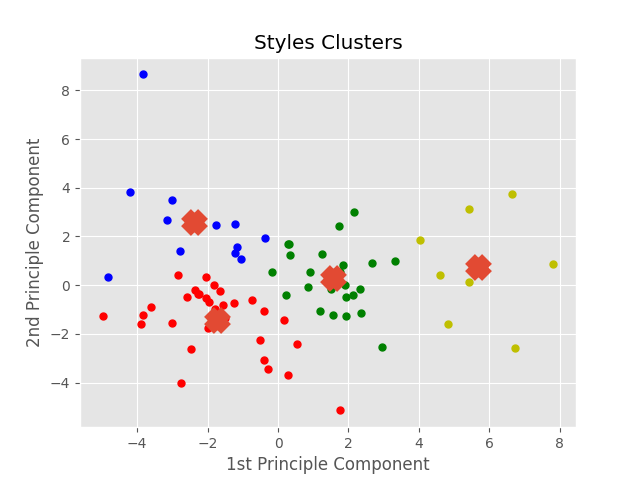
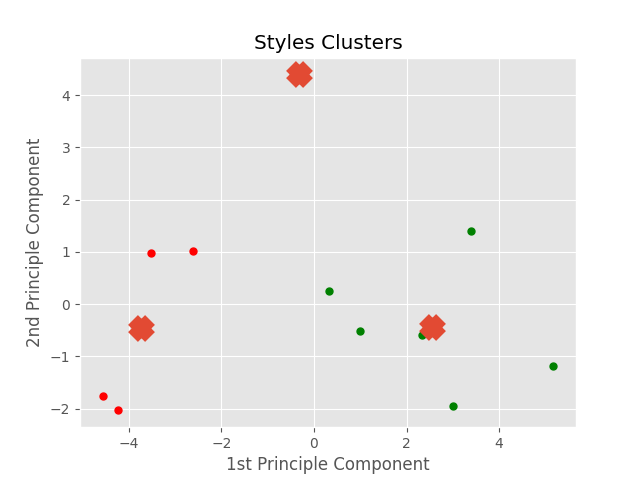
new dataset

diff --git a/intrinsic-trial1/Code/test.py b/intrinsic-trial1/Code/test.py
@@ -490,7 +490,7 @@ def ElbowMethod(data):
 # ANALYSIS PART
 
 # Using the graph shown in Elbow Method, find the appropriate value of K and set it here.
-def Analysis(vector, K=4):
+def Analysis(vector, K=3):
     arr = (np.array(vector))
 
     # mean normalization of the data . converting into normal distribution having mean=0 , -0.1<x<0.1
@@ -529,7 +529,7 @@ def Analysis(vector, K=4):
 if __name__ == '__main__':
 
     # You can try any text file here
-    text = open("test.txt").read()
+    text = open("test2.txt", "r", encoding='utf-8').read()
 
     vector = FeatureExtration(text, winSize=10, step=10)
     ElbowMethod(np.array(vector))
